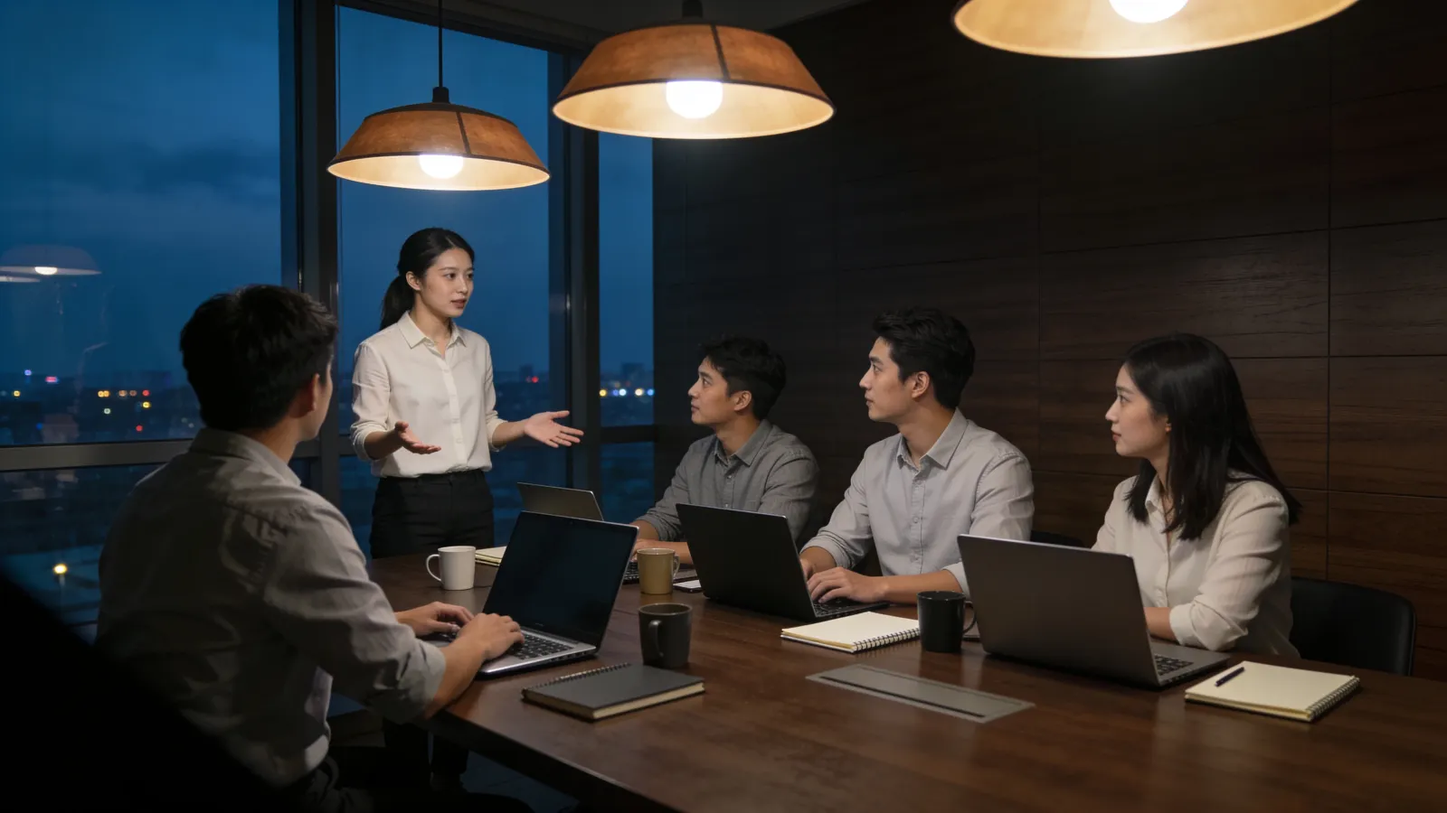
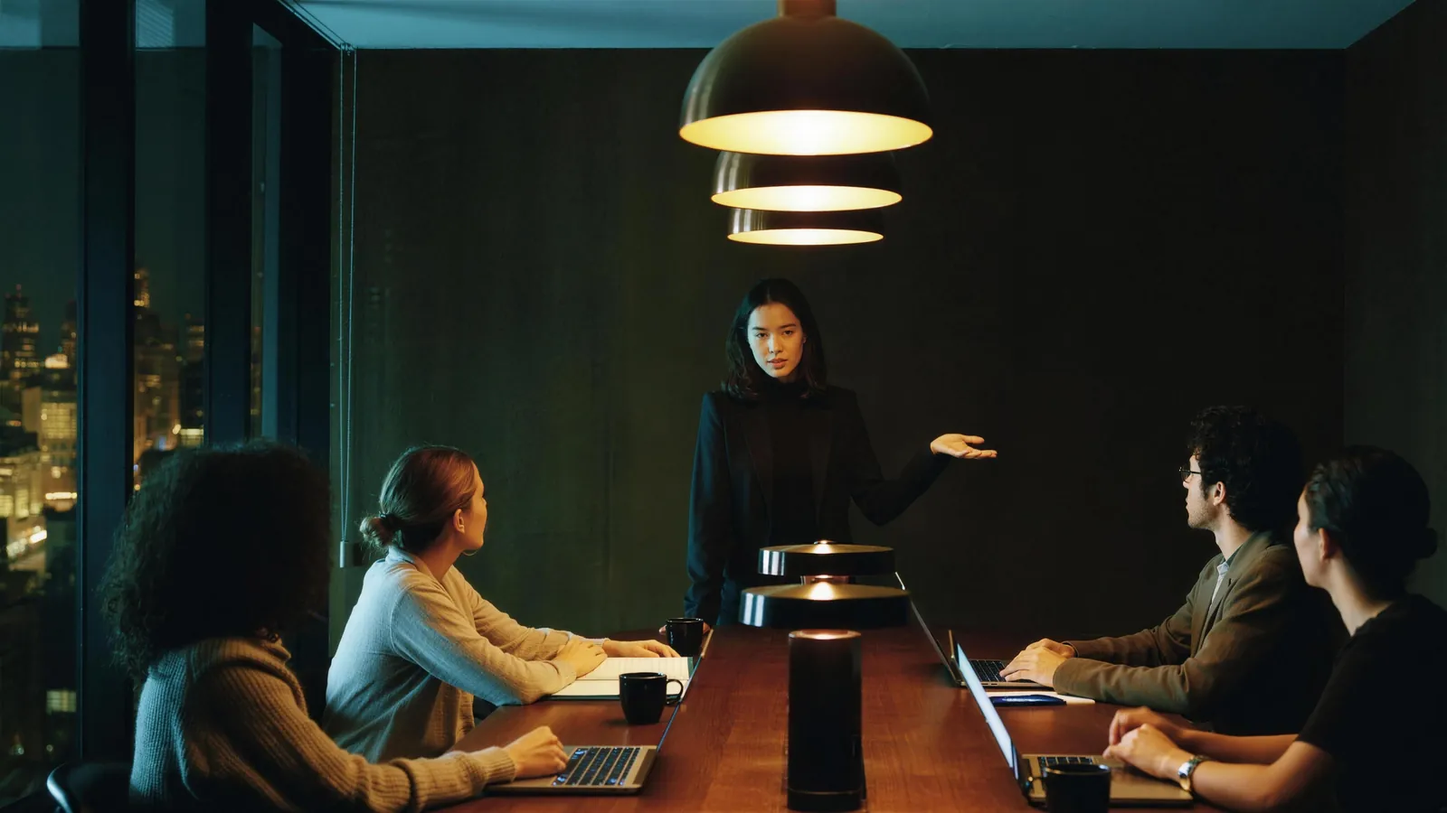
feat(how-we-work): new hero, with fixtures that match the rest of the site
Tyler's note asked for the light fixtures on the How We Work hero to match
the ones in every other image. The old hero hung three oversized tan cones,
pale on the outside, which read as a restaurant. Everywhere else on the site
(team-dusk, team-about, hero-about) the fixture is a compact pendant with a
dark bronze shade that reads dark from outside and warm underneath.

Replaced rather than retouched, because a lamp is lighting the room: changing
the shade means changing every falloff, shadow and skin tone under it. The new
hero keeps the scene the page needs, one person talking a seated team through
the work, and hangs a dark bronze tiered dome over it, glowing warm from
below. Same 16:9 frame and the site's three widths, rendered at 2048 then put
through a 4K upscale before resampling. Alt text updated to describe it.

diff --git a/public/__v8.html b/public/__v8.html
@@ -1,0 +1,250 @@
+<!doctype html>
+<html lang="en">
+<head>
+<meta charset="utf-8">
+<meta name="viewport" content="width=device-width, initial-scale=1">
+<title>ElderOps capability schematic</title>
+<link rel="preconnect" href="https://api.fontshare.com">
+<link href="https://api.fontshare.com/v2/css?f[]=general-sans@600,700&f[]=satoshi@400,500&display=swap" rel="stylesheet">
+<link href="https://fonts.googleapis.com/css2?family=IBM+Plex+Mono:wght@500&display=swap" rel="stylesheet">
+<style>
+*{box-sizing:border-box}
+body{margin:0;background:#fcfcf6;color:#0b2418;font-family:"Satoshi",system-ui,-apple-system,"Segoe UI",sans-serif;-webkit-font-smoothing:antialiased}
+.container{max-width:1440px;margin-inline:auto;padding-inline:64px}
+.head{padding:120px 0 0}
+.kicker{margin:0;font-family:"General Sans","Avenir Next","Trebuchet MS",sans-serif;font-size:16px;font-weight:600;letter-spacing:-0.01em;color:rgba(11,36,24,0.70)}
+h2{margin:12px 0 0;font-family:"General Sans","Avenir Next","Trebuchet MS",sans-serif;font-size:68px;font-weight:700;line-height:1.02;letter-spacing:-0.03em}
+.intro{margin:24px 0 0;max-width:560px;font-size:16px;line-height:1.65;color:rgba(11,36,24,0.64)}
+.plateWrap{background:#0a1110;margin-top:72px}
+.plateInner{max-width:1440px;margin-inline:auto;padding:56px 64px}
+.scroll{overflow-x:auto;overflow-y:hidden;-webkit-overflow-scrolling:touch}
+svg.plate{display:block;max-width:100%;height:auto;min-width:1100px}
+.rlab{font-family:"IBM Plex Mono",ui-monospace,"SF Mono",Menlo,monospace;font-size:10px;letter-spacing:0.16em;fill:rgba(241,238,231,0.44)}
+.elab{font-family:"IBM Plex Mono",ui-monospace,"SF Mono",Menlo,monospace;font-size:9.5px;letter-spacing:0.1em;fill:rgba(241,238,231,0.40);transition:fill .22s ease}
+.cut{fill:#0a1110}
+.edge{fill:none;stroke:rgba(241,238,231,0.22);stroke-width:1;transition:stroke .22s ease,opacity .22s ease}
+.edge.adv{stroke-dasharray:2 3;stroke:rgba(241,238,231,0.20)}
+.edge-live{fill:none;stroke:#0fb45e;stroke-width:1.5;stroke-dasharray:26 calc(var(--len) * 1px);
+  stroke-dashoffset:0;animation:trace 21.7s linear infinite;opacity:0}
+@keyframes trace{0%{stroke-dashoffset:0;opacity:0}0.4%{opacity:1}
+12.44%{stroke-dashoffset:calc(var(--len) * -1px);opacity:1}
+13.13%{stroke-dashoffset:calc(var(--len) * -1px);opacity:0}
+100%{stroke-dashoffset:calc(var(--len) * -1px);opacity:0}}
+.edge-live[data-for="e1"]{animation-delay:0.0s}
+.edge-live[data-for="e2"]{animation-delay:3.1s}
+.edge-live[data-for="e3"]{animation-delay:6.2s}
+.edge-live[data-for="e4"]{animation-delay:9.3s}
+.edge-live[data-for="e5"]{animation-delay:12.4s}
+.edge-live[data-for="e6"]{animation-delay:15.5s}
+.edge-live[data-for="e7"]{animation-delay:18.6s}
+.node{cursor:pointer;outline:none}
+.nbg{fill:#0f1615;transition:fill .2s ease}
+.nbr{fill:none;stroke:rgba(241,238,231,0.15);stroke-width:1;transition:stroke .2s ease}
+.nidx{font-family:"IBM Plex Mono",ui-monospace,"SF Mono",Menlo,monospace;font-size:11px;letter-spacing:0.08em;fill:rgba(241,238,231,0.45)}
+.nrule{stroke:rgba(241,238,231,0.13);stroke-width:1}
+.ntitle{font-family:"General Sans","Avenir Next","Trebuchet MS",sans-serif;font-size:19px;font-weight:700;letter-spacing:-0.02em;fill:#f1eee7}
+.nkind{font-family:"IBM Plex Mono",ui-monospace,"SF Mono",Menlo,monospace;font-size:10px;letter-spacing:0.14em;fill:rgba(241,238,231,0.40)}
+.nsubs{font-family:"IBM Plex Mono",ui-monospace,"SF Mono",Menlo,monospace;font-size:10px;letter-spacing:0.04em;fill:rgba(241,238,231,0);transition:fill .22s ease}
+.sym .p{fill:none;stroke:rgba(241,238,231,0.68);stroke-width:1.5;stroke-linejoin:miter;transition:stroke .2s ease}
+.sym .c{fill:none;stroke:rgba(241,238,231,0.30);stroke-width:0.8;transition:stroke .2s ease}
+.sym .cl{fill:none;stroke:rgba(241,238,231,0.22);stroke-width:0.8;stroke-dasharray:7 2.5 1.5 2.5;transition:stroke .2s ease}
+.sym .s{fill:rgba(241,238,231,0.70);stroke:none;transition:fill .2s ease}
+.sym .h{fill:url(#hx);stroke:none}
+.sym .h2{fill:url(#hx2);stroke:none}
+.node:hover .nbg,.node:focus-visible .nbg{fill:#141d1b}
+.node:hover .nbr,.node:focus-visible .nbr{stroke:#0fb45e}
+.node:hover .sym .p,.node:focus-visible .sym .p{stroke:#0fb45e}
+.node:hover .sym .s,.node:focus-visible .sym .s{fill:#0fb45e}
+.node:hover .sym .c,.node:hover .sym .cl,.node:focus-visible .sym .c,.node:focus-visible .sym .cl{stroke:rgba(15,180,94,0.50)}
+.node:hover .nsubs,.node:focus-visible .nsubs{fill:rgba(241,238,231,0.62)}
+.node:focus-visible .nbr{stroke-width:2}
+svg.plate:has(.node:hover) .edge-live,svg.plate:has(.node:focus-visible) .edge-live{animation-play-state:paused;opacity:0}
+svg.plate:has(.node:hover) .node:not(:hover){opacity:.32}
+svg.plate:has(.node:hover) .edge,svg.plate:has(.node:focus-visible) .edge{opacity:.16}
+svg.plate:has(.node:hover) .elab,svg.plate:has(.node:focus-visible) .elab{fill:rgba(241,238,231,0.12)}
+svg.plate:has(.node[data-n="01"]:hover) .edge[data-a="01"],svg.plate:has(.node[data-n="01"]:hover) .edge[data-b="01"],svg.plate:has(.node[data-n="01"]:focus-visible) .edge[data-a="01"],svg.plate:has(.node[data-n="01"]:focus-visible) .edge[data-b="01"]{stroke:#0fb45e;opacity:1;marker-end:url(#chevlive)}
+svg.plate:has(.node[data-n="01"]:hover) .elab[data-a="01"],svg.plate:has(.node[data-n="01"]:hover) .elab[data-b="01"],svg.plate:has(.node[data-n="01"]:focus-visible) .elab[data-a="01"],svg.plate:has(.node[data-n="01"]:focus-visible) .elab[data-b="01"]{fill:#0fb45e}
+svg.plate:has(.node[data-n="02"]:hover) .edge[data-a="02"],svg.plate:has(.node[data-n="02"]:hover) .edge[data-b="02"],svg.plate:has(.node[data-n="02"]:focus-visible) .edge[data-a="02"],svg.plate:has(.node[data-n="02"]:focus-visible) .edge[data-b="02"]{stroke:#0fb45e;opacity:1;marker-end:url(#chevlive)}
+svg.plate:has(.node[data-n="02"]:hover) .elab[data-a="02"],svg.plate:has(.node[data-n="02"]:hover) .elab[data-b="02"],svg.plate:has(.node[data-n="02"]:focus-visible) .elab[data-a="02"],svg.plate:has(.node[data-n="02"]:focus-visible) .elab[data-b="02"]{fill:#0fb45e}
+svg.plate:has(.node[data-n="03"]:hover) .edge[data-a="03"],svg.plate:has(.node[data-n="03"]:hover) .edge[data-b="03"],svg.plate:has(.node[data-n="03"]:focus-visible) .edge[data-a="03"],svg.plate:has(.node[data-n="03"]:focus-visible) .edge[data-b="03"]{stroke:#0fb45e;opacity:1;marker-end:url(#chevlive)}
+svg.plate:has(.node[data-n="03"]:hover) .elab[data-a="03"],svg.plate:has(.node[data-n="03"]:hover) .elab[data-b="03"],svg.plate:has(.node[data-n="03"]:focus-visible) .elab[data-a="03"],svg.plate:has(.node[data-n="03"]:focus-visible) .elab[data-b="03"]{fill:#0fb45e}
+svg.plate:has(.node[data-n="04"]:hover) .edge[data-a="04"],svg.plate:has(.node[data-n="04"]:hover) .edge[data-b="04"],svg.plate:has(.node[data-n="04"]:focus-visible) .edge[data-a="04"],svg.plate:has(.node[data-n="04"]:focus-visible) .edge[data-b="04"]{stroke:#0fb45e;opacity:1;marker-end:url(#chevlive)}
+svg.plate:has(.node[data-n="04"]:hover) .elab[data-a="04"],svg.plate:has(.node[data-n="04"]:hover) .elab[data-b="04"],svg.plate:has(.node[data-n="04"]:focus-visible) .elab[data-a="04"],svg.plate:has(.node[data-n="04"]:focus-visible) .elab[data-b="04"]{fill:#0fb45e}
+svg.plate:has(.node[data-n="05"]:hover) .edge[data-a="05"],svg.plate:has(.node[data-n="05"]:hover) .edge[data-b="05"],svg.plate:has(.node[data-n="05"]:focus-visible) .edge[data-a="05"],svg.plate:has(.node[data-n="05"]:focus-visible) .edge[data-b="05"]{stroke:#0fb45e;opacity:1;marker-end:url(#chevlive)}
+svg.plate:has(.node[data-n="05"]:hover) .elab[data-a="05"],svg.plate:has(.node[data-n="05"]:hover) .elab[data-b="05"],svg.plate:has(.node[data-n="05"]:focus-visible) .elab[data-a="05"],svg.plate:has(.node[data-n="05"]:focus-visible) .elab[data-b="05"]{fill:#0fb45e}
+svg.plate:has(.node[data-n="06"]:hover) .edge[data-a="06"],svg.plate:has(.node[data-n="06"]:hover) .edge[data-b="06"],svg.plate:has(.node[data-n="06"]:focus-visible) .edge[data-a="06"],svg.plate:has(.node[data-n="06"]:focus-visible) .edge[data-b="06"]{stroke:#0fb45e;opacity:1;marker-end:url(#chevlive)}
+svg.plate:has(.node[data-n="06"]:hover) .elab[data-a="06"],svg.plate:has(.node[data-n="06"]:hover) .elab[data-b="06"],svg.plate:has(.node[data-n="06"]:focus-visible) .elab[data-a="06"],svg.plate:has(.node[data-n="06"]:focus-visible) .elab[data-b="06"]{fill:#0fb45e}
+svg.plate:has(.node[data-n="07"]:hover) .edge[data-a="07"],svg.plate:has(.node[data-n="07"]:hover) .edge[data-b="07"],svg.plate:has(.node[data-n="07"]:focus-visible) .edge[data-a="07"],svg.plate:has(.node[data-n="07"]:focus-visible) .edge[data-b="07"]{stroke:#0fb45e;opacity:1;marker-end:url(#chevlive)}
+svg.plate:has(.node[data-n="07"]:hover) .elab[data-a="07"],svg.plate:has(.node[data-n="07"]:hover) .elab[data-b="07"],svg.plate:has(.node[data-n="07"]:focus-visible) .elab[data-a="07"],svg.plate:has(.node[data-n="07"]:focus-visible) .elab[data-b="07"]{fill:#0fb45e}
+svg.plate:has(.node[data-n="08"]:hover) .edge[data-a="08"],svg.plate:has(.node[data-n="08"]:hover) .edge[data-b="08"],svg.plate:has(.node[data-n="08"]:focus-visible) .edge[data-a="08"],svg.plate:has(.node[data-n="08"]:focus-visible) .edge[data-b="08"]{stroke:#0fb45e;opacity:1;marker-end:url(#chevlive)}
+svg.plate:has(.node[data-n="08"]:hover) .elab[data-a="08"],svg.plate:has(.node[data-n="08"]:hover) .elab[data-b="08"],svg.plate:has(.node[data-n="08"]:focus-visible) .elab[data-a="08"],svg.plate:has(.node[data-n="08"]:focus-visible) .elab[data-b="08"]{fill:#0fb45e}
+@media (prefers-reduced-motion: reduce){
+ .edge-live{animation:none;opacity:1;stroke-dashoffset:calc(var(--len) * -0.38px)}
+ .nbg,.nbr,.sym .p,.sym .c,.sym .s,.nsubs,.elab,.edge{transition:none}}
+@media (max-width:900px){.container{padding-inline:20px}.plateInner{padding:28px 20px}h2{font-size:44px}.head{padding-top:72px}}
+</style>
+</head>
+<body>
+<div class="container head">
+  <p class="kicker">What we do</p>
+  <h2>Our capabilities.</h2>
+  <p class="intro">Each engagement is scoped against your roadmap, led by senior engineers, and measured by outcomes you can check.</p>
+</div>
+<div class="plateWrap"><div class="plateInner"><div class="scroll">
+<svg class="plate" viewBox="0 0 1312 980" width="1312" height="980" role="img" aria-labelledby="pt">
+<title id="pt">Schematic of the eight ElderOps capabilities and how they relate.</title>
+<defs>
+<pattern id="grid" width="32" height="32" patternUnits="userSpaceOnUse">
+  <path d="M32 0 L0 0 0 32" fill="none" stroke="rgba(241,238,231,0.045)" stroke-width="1"/>
+</pattern>
+<pattern id="hx" width="4" height="4" patternUnits="userSpaceOnUse" patternTransform="rotate(45)">
+  <path d="M0 0 V4" stroke="rgba(241,238,231,0.30)" stroke-width="0.7"/>
+</pattern>
+<pattern id="hx2" width="4" height="4" patternUnits="userSpaceOnUse" patternTransform="rotate(-45)">
+  <path d="M0 0 V4" stroke="rgba(241,238,231,0.22)" stroke-width="0.7"/>
+</pattern>
+<marker id="chev" viewBox="0 0 10 10" refX="8.5" refY="5" markerWidth="8" markerHeight="8" orient="auto-start-reverse">
+  <path d="M2 1.5 L8 5 L2 8.5" fill="none" stroke="rgba(241,238,231,0.34)" stroke-width="1.2" stroke-linecap="round" stroke-linejoin="round"/>
+</marker>
+<marker id="chevlive" viewBox="0 0 10 10" refX="8.5" refY="5" markerWidth="8" markerHeight="8" orient="auto-start-reverse">
+  <path d="M2 1.5 L8 5 L2 8.5" fill="none" stroke="#0fb45e" stroke-width="1.4" stroke-linecap="round" stroke-linejoin="round"/>
+</marker>
+</defs>
+<rect x="0" y="0" width="1312" height="980" fill="#0a1110"/>
+<rect x="0" y="0" width="1312" height="980" fill="url(#grid)"/>
+<g stroke="rgba(241,238,231,0.14)" stroke-width="1" fill="none">
+<path d="M22.5 0.5 H1289"/><path d="M22.5 979 H1289"/>
+<path d="M0.5 22.5 V957"/><path d="M1311 22.5 V957"/></g>
+<path d="M0.5 12.5 V0.5 H12.5" stroke="rgba(241,238,231,0.30)" stroke-width="1" fill="none"/>
+<path d="M1311 12.5 V0.5 H1299" stroke="rgba(241,238,231,0.30)" stroke-width="1" fill="none"/>
+<path d="M0.5 967 V979 H12.5" stroke="rgba(241,238,231,0.30)" stroke-width="1" fill="none"/>
+<path d="M1311 967 V979 H1299" stroke="rgba(241,238,231,0.30)" stroke-width="1" fill="none"/>
+<g stroke="rgba(241,238,231,0.13)" stroke-width="1" stroke-dasharray="2 3" fill="none">
+<path d="M158.0 250 H404"/><path d="M40 250 H52"/>
+<path d="M40 896 H404"/><path d="M40 250 V896"/><path d="M404 250 V896"/></g>
+<text x="56" y="254" class="rlab">FOUNDATION</text>
+<g stroke="rgba(241,238,231,0.13)" stroke-width="1" stroke-dasharray="2 3" fill="none">
+<path d="M556.8 250 H820"/><path d="M456 250 H468"/>
+<path d="M456 688 H820"/><path d="M456 250 V688"/><path d="M820 250 V688"/></g>
+<text x="472" y="254" class="rlab">DELIVERY</text>
+<g stroke="rgba(241,238,231,0.13)" stroke-width="1" stroke-dasharray="2 3" fill="none">
+<path d="M964.2 250 H1236"/><path d="M872 250 H884"/>
+<path d="M872 688 H1236"/><path d="M872 250 V688"/><path d="M1236 250 V688"/></g>
+<text x="888" y="254" class="rlab">OPERATE</text>
+<path class="edge" data-a="01" data-b="02" d="M222 498 L222 462" marker-end="url(#chev)"/>
+<path class="edge-live" data-for="e1" d="M222 498 L222 462" style="--len:36"/>
+<rect class="cut" x="232" y="474" width="42.5" height="13"/>
+<text class="elab" data-a="01" data-b="02" x="232" y="483" text-anchor="start">hosts</text>
+<path class="edge" data-a="01" data-b="07" d="M222 666 L222 702" marker-end="url(#chev)"/>
+<path class="edge-live" data-for="e2" d="M222 666 L222 702" style="--len:36"/>
+<rect class="cut" x="232" y="678" width="42.5" height="13"/>
+<text class="elab" data-a="01" data-b="07" x="232" y="687" text-anchor="start">hosts</text>
+<path class="edge" data-a="02" data-b="03" d="M382 374 L474 374" marker-end="url(#chev)"/>
+<path class="edge-live" data-for="e3" d="M382 374 L474 374" style="--len:92"/>
+<rect class="cut" x="406.75" y="353" width="42.5" height="13"/>
+<text class="elab" data-a="02" data-b="03" x="428" y="362" text-anchor="middle">paves</text>
+<path class="edge" data-a="04" data-b="03" d="M638 498 L638 462" marker-end="url(#chev)"/>
+<path class="edge-live" data-for="e4" d="M638 498 L638 462" style="--len:36"/>
+<rect class="cut" x="648" y="474" width="60.8" height="13"/>
+<text class="elab" data-a="04" data-b="03" x="648" y="483" text-anchor="start">enforces</text>
+<path class="edge" data-a="03" data-b="05" d="M798 374 L890 374" marker-end="url(#chev)"/>
+<path class="edge-live" data-for="e5" d="M798 374 L890 374" style="--len:92"/>
+<rect class="cut" x="816.65" y="353" width="54.7" height="13"/>
+<text class="elab" data-a="03" data-b="05" x="844" y="362" text-anchor="middle">deploys</text>
+<path class="edge" data-a="05" data-b="06" d="M1054 458 L1054 494" marker-end="url(#chev)"/>
+<path class="edge-live" data-for="e6" d="M1054 458 L1054 494" style="--len:36"/>
+<rect class="cut" x="1064" y="470" width="60.8" height="13"/>
+<text class="elab" data-a="05" data-b="06" x="1064" y="479" text-anchor="start">observes</text>
+<path class="edge" data-a="06" data-b="07" d="M1054 666 L1054 928 L222 928 L222 878" marker-end="url(#chev)"/>
+<path class="edge-live" data-for="e7" d="M1054 666 L1054 928 L222 928 L222 878" style="--len:1144"/>
+<rect class="cut" x="610.65" y="910" width="54.7" height="13"/>
+<text class="elab" data-a="06" data-b="07" x="638" y="919" text-anchor="middle">informs</text>
+<path class="edge adv" data-a="08" data-b="02" d="M560 224 L560 238 L222 238 L222 286" marker-end="url(#chev)"/>
+<path class="edge adv" data-a="08" data-b="03" d="M638 224 L638 286" marker-end="url(#chev)"/>
+<path class="edge adv" data-a="08" data-b="05" d="M752 224 L752 238 L1054 238 L1054 286" marker-end="url(#chev)"/>
+<rect class="cut" x="361" y="229" width="60" height="13"/>
+<text class="elab" x="391" y="242" text-anchor="middle">advises</text>
+<a class="node" data-n="02" href="/services/platform-engineering" tabindex="0" aria-label="Platform Engineering">
+  <rect class="nbg" x="62" y="290" width="320" height="168"/>
+  <rect class="nbr" x="62.5" y="290.5" width="319" height="167"/>
+  <text class="nidx" x="78" y="322">02</text>
+  <path class="nrule" d="M106 318 H290"/>
+  <g class="sym" transform="translate(302,302)"><rect class="s" x="3" y="40" width="58" height="5"/><rect class="h" x="3" y="45" width="58" height="8"/><rect class="p" x="3" y="45" width="58" height="8"/><rect class="h2" x="3" y="53" width="58" height="8"/><rect class="p" x="3" y="53" width="58" height="8"/><rect class="p" x="8" y="26" width="12" height="14"/><rect class="p" x="26" y="26" width="12" height="14"/><rect class="p" x="44" y="26" width="12" height="14"/><path class="cl" d="M14 22 V63"/><path class="cl" d="M32 22 V63"/><path class="cl" d="M50 22 V63"/><path class="c" d="M6 38 V42"/><path class="c" d="M14 38 V42"/><path class="c" d="M22 38 V42"/><path class="c" d="M30 38 V42"/><path class="c" d="M38 38 V42"/><path class="c" d="M46 38 V42"/><path class="c" d="M54 38 V42"/><path class="c" d="M3 18 H14"/><path class="c" d="M11 15 L14 18 L11 21"/></g>
+  <text class="ntitle" x="78" y="396">Platform Engineering</text>
+  <text class="nkind" x="78" y="418">PLATFORM</text>
+  <text class="nsubs" x="78" y="442">golden paths / self-service / developer portal</text>
+</a>
+<a class="node" data-n="01" href="/services/cloud-infrastructure" tabindex="0" aria-label="Cloud and Infrastructure">
+  <rect class="nbg" x="62" y="498" width="320" height="168"/>
+  <rect class="nbr" x="62.5" y="498.5" width="319" height="167"/>
+  <text class="nidx" x="78" y="530">01</text>
+  <path class="nrule" d="M106 526 H290"/>
+  <g class="sym" transform="translate(302,510)"><rect class="p" x="13" y="4" width="38" height="56"/><path class="c" d="M17 4 V60"/><path class="c" d="M47 4 V60"/><rect class="s" x="17" y="7" width="30" height="7"/><rect class="h" x="17" y="16" width="30" height="7"/><rect class="p" x="17" y="16" width="30" height="7"/><rect class="s" x="17" y="25" width="30" height="7"/><rect class="h" x="17" y="34" width="30" height="7"/><rect class="p" x="17" y="34" width="30" height="7"/><rect class="s" x="17" y="43" width="30" height="7"/><rect class="p" x="17" y="52" width="30" height="7"/><path class="c" d="M21 54 V57"/><path class="c" d="M28 54 V57"/><path class="c" d="M35 54 V57"/><path class="c" d="M42 54 V57"/><path class="c" d="M7 4 V60"/><path class="c" d="M4 4 H10"/><path class="c" d="M4 60 H10"/><path class="cl" d="M32 0 V64"/></g>
+  <text class="ntitle" x="78" y="604">Cloud &amp; Infrastructure</text>
+  <text class="nkind" x="78" y="626">SUBSTRATE</text>
+  <text class="nsubs" x="78" y="650">landing zones / IaC / networking / recovery</text>
+</a>
+<a class="node" data-n="07" href="/services/data-modernization" tabindex="0" aria-label="Data and Modernization">
+  <rect class="nbg" x="62" y="706" width="320" height="168"/>
+  <rect class="nbr" x="62.5" y="706.5" width="319" height="167"/>
+  <text class="nidx" x="78" y="738">07</text>
+  <path class="nrule" d="M106 734 H290"/>
+  <g class="sym" transform="translate(302,718)"><ellipse class="p" cx="35" cy="16" rx="11" ry="4"/><path class="p" d="M24 16 V50"/><path class="p" d="M46 16 V50"/><path class="p" d="M24 50 A11 4 0 0 0 46 50"/><path class="h" d="M24 36 h22 v14 A11 4 0 0 1 24 50 Z"/><path class="p" d="M24 36 H46"/><path class="c" d="M24 24 H46"/><path class="c" d="M24 30 H46"/><path class="c" d="M4 12 H14"/><path class="c" d="M4 24 H14"/><path class="c" d="M4 36 H14"/><path class="c" d="M14 12 V36"/><path class="p" d="M14 24 H24"/><path class="c" d="M21 21 L24 24 L21 27"/><path class="c" d="M46 44 H58"/><path class="c" d="M58 44 V28"/><path class="c" d="M55 31 L58 28 L61 31"/><path class="cl" d="M35 6 V60"/></g>
+  <text class="ntitle" x="78" y="812">Data &amp; Modernization</text>
+  <text class="nkind" x="78" y="834">STATEFUL</text>
+  <text class="nsubs" x="78" y="858">platform / pipelines / governance</text>
+</a>
+<a class="node" data-n="03" href="/services/devops-delivery" tabindex="0" aria-label="DevOps and Delivery">
+  <rect class="nbg" x="478" y="290" width="320" height="168"/>
+  <rect class="nbr" x="478.5" y="290.5" width="319" height="167"/>
+  <text class="nidx" x="494" y="322">03</text>
+  <path class="nrule" d="M522 318 H706"/>
+  <g class="sym" transform="translate(718,302)"><circle class="p" cx="16" cy="32" r="11"/><circle class="c" cx="16" cy="32" r="7.5"/><path class="c" d="M16 32 L16.0 23.0"/><path class="c" d="M16 32 L8.2 36.5"/><path class="c" d="M16 32 L23.8 36.5"/><circle class="s" cx="16" cy="32" r="2.6"/><circle class="p" cx="48" cy="32" r="11"/><circle class="c" cx="48" cy="32" r="7.5"/><path class="c" d="M48 32 L48.0 23.0"/><path class="c" d="M48 32 L40.2 36.5"/><path class="c" d="M48 32 L55.8 36.5"/><circle class="s" cx="48" cy="32" r="2.6"/><path class="p" d="M16 21 H48"/><path class="p" d="M16 43 H48"/><rect class="s" x="20" y="16" width="9" height="4.5"/><rect class="s" x="30" y="16" width="9" height="4.5"/><rect class="s" x="40" y="16" width="9" height="4.5"/><path class="c" d="M26 13 H40"/><path class="c" d="M37 10 L40 13 L37 16"/><path class="cl" d="M0 32 H64"/></g>
+  <text class="ntitle" x="494" y="396">DevOps &amp; Delivery</text>
+  <text class="nkind" x="494" y="418">PIPELINE</text>
+  <text class="nsubs" x="494" y="442">CI/CD / release automation / environments</text>
+</a>
+<a class="node" data-n="04" href="/services/security-devsecops" tabindex="0" aria-label="Security and DevSecOps">
+  <rect class="nbg" x="478" y="498" width="320" height="168"/>
+  <rect class="nbr" x="478.5" y="498.5" width="319" height="167"/>
+  <text class="nidx" x="494" y="530">04</text>
+  <path class="nrule" d="M522 526 H706"/>
+  <g class="sym" transform="translate(718,510)"><rect class="h" x="2" y="8" width="20" height="50"/><rect class="p" x="2" y="8" width="20" height="50"/><rect class="h" x="42" y="8" width="20" height="50"/><rect class="p" x="42" y="8" width="20" height="50"/><path class="c" d="M22 6 H42"/><path class="c" d="M22 60 H42"/><rect class="s" x="29" y="4" width="6" height="20"/><path class="c" d="M32 0 V4"/><path class="c" d="M29 2 H35"/><path class="c" d="M22 34 H42"/><path class="c" d="M39 31 L42 34 L39 37"/><path class="c" d="M22 48 H42"/><path class="c" d="M39 45 L42 48 L39 51"/><path class="c" d="M22 15 H27"/><path class="p" d="M27 11 V19"/><path class="cl" d="M32 24 V64"/></g>
+  <text class="ntitle" x="494" y="604">Security &amp; DevSecOps</text>
+  <text class="nkind" x="494" y="626">POLICY</text>
+  <text class="nsubs" x="494" y="650">scanning / identity / secrets / supply chain</text>
+</a>
+<a class="node" data-n="05" href="/services/reliability-operations" tabindex="0" aria-label="Reliability and Operations">
+  <rect class="nbg" x="894" y="290" width="320" height="168"/>
+  <rect class="nbr" x="894.5" y="290.5" width="319" height="167"/>
+  <text class="nidx" x="910" y="322">05</text>
+  <path class="nrule" d="M938 318 H1122"/>
+  <g class="sym" transform="translate(1134,302)"><path class="c" d="M2 22 H5"/><circle class="p" cx="12" cy="22" r="7"/><path class="c" d="M12 15 V29"/><path class="c" d="M5 22 H19"/><path class="s" d="M12 15 A7 7 0 0 1 19 22 L12 22 Z"/><path class="c" d="M19 22 H25"/><path class="c" d="M22 19 L25 22 L22 25"/><rect class="p" x="25" y="10" width="26" height="24"/><rect class="h" x="25" y="27" width="26" height="7"/><path class="c" d="M29 15 H47"/><path class="c" d="M29 20 H41"/><path class="c" d="M51 22 H59"/><path class="c" d="M59 22 V50"/><path class="c" d="M59 50 H47"/><rect class="p" x="23" y="42" width="24" height="16"/><rect class="h2" x="23" y="42" width="24" height="16"/><path class="c" d="M27 50 H43"/><path class="c" d="M23 50 H12"/><path class="c" d="M12 50 V31"/><path class="c" d="M9 34 L12 31 L15 34"/><path class="c" d="M4 30 H8"/><path class="c" d="M6 28 V32"/><path class="cl" d="M12 2 V15"/><path class="cl" d="M38 34 V42"/></g>
+  <text class="ntitle" x="910" y="396">Reliability &amp; Operations</text>
+  <text class="nkind" x="910" y="418">CONTROL LOOP</text>
+  <text class="nsubs" x="910" y="442">SLOs / observability / on-call / recovery</text>
+</a>
+<a class="node" data-n="06" href="/services/cloud-cost-optimization" tabindex="0" aria-label="Cloud Cost Optimization">
+  <rect class="nbg" x="894" y="498" width="320" height="168"/>
+  <rect class="nbr" x="894.5" y="498.5" width="319" height="167"/>
+  <text class="nidx" x="910" y="530">06</text>
+  <path class="nrule" d="M938 526 H1122"/>
+  <g class="sym" transform="translate(1134,510)"><path class="c" d="M12.1 37.3 L11.4 35.6 L10.8 33.8 L10.4 32.1 L10.1 30.2 L10.0 28.4 L10.0 26.6 L10.2 24.7 L10.6 22.9 L11.1 21.2 L11.7 19.4 L12.5 17.8 L13.4 16.2 L14.5 14.7 L15.7 13.3 L17.0 11.9 L18.4 10.7 L19.8 9.7 L21.4 8.7 L23.1 7.9 L24.8 7.2 L26.5 6.7 L28.3 6.3 L30.2 6.1 L32.0 6.0 L33.8 6.1 L35.7 6.3 L37.5 6.7 L39.2 7.2 L40.9 7.9 L42.6 8.7 L44.2 9.7 L45.6 10.7 L47.0 11.9 L48.3 13.3 L49.5 14.7 L50.6 16.2 L51.5 17.8 L52.3 19.4 L52.9 21.2 L53.4 22.9 L53.8 24.7 L54.0 26.6 L54.0 28.4 L53.9 30.2 L53.6 32.1 L53.2 33.8 L52.6 35.6 L51.9 37.3"/><path class="p" d="M15.7 35.6 L15.1 34.2 L14.6 32.8 L14.3 31.3 L14.1 29.8 L14.0 28.3 L14.0 26.8 L14.2 25.3 L14.5 23.8 L14.9 22.4 L15.4 21.0 L16.1 19.6 L16.8 18.3 L17.7 17.1 L18.6 15.9 L19.7 14.9 L20.8 13.9 L22.1 13.0 L23.3 12.2 L24.7 11.6 L26.1 11.0 L27.5 10.6 L29.0 10.3 L30.5 10.1 L32.0 10.0 L33.5 10.1 L35.0 10.3 L36.5 10.6 L37.9 11.0 L39.3 11.6 L40.7 12.2 L41.9 13.0 L43.2 13.9 L44.3 14.9 L45.4 15.9 L46.3 17.1 L47.2 18.3 L47.9 19.6 L48.6 21.0 L49.1 22.4 L49.5 23.8 L49.8 25.3 L50.0 26.8 L50.0 28.3 L49.9 29.8 L49.7 31.3 L49.4 32.8 L48.9 34.2 L48.3 35.6"/><path class="c" d="M15.7 35.6 L20.2 33.5"/><path class="c" d="M14.5 23.8 L19.4 25.0"/><path class="c" d="M20.8 13.9 L23.9 17.8"/><path class="c" d="M32.0 10.0 L32.0 15.0"/><path class="c" d="M43.2 13.9 L40.1 17.8"/><path class="c" d="M49.5 23.8 L44.6 25.0"/><path class="c" d="M48.3 35.6 L43.8 33.5"/><path class="c" d="M15.7 35.6 L18.0 34.6"/><path class="c" d="M14.1 29.8 L16.6 29.6"/><path class="c" d="M14.5 23.8 L16.9 24.4"/><path class="c" d="M16.8 18.3 L18.9 19.7"/><path class="c" d="M20.8 13.9 L22.4 15.8"/><path class="c" d="M26.1 11.0 L26.9 13.4"/><path class="c" d="M32.0 10.0 L32.0 12.5"/><path class="c" d="M37.9 11.0 L37.1 13.4"/><path class="c" d="M43.2 13.9 L41.6 15.8"/><path class="c" d="M47.2 18.3 L45.1 19.7"/><path class="c" d="M49.5 23.8 L47.1 24.4"/><path class="c" d="M49.9 29.8 L47.4 29.6"/><path class="c" d="M48.3 35.6 L46.0 34.6"/><path class="p" d="M32 28 L17.3 24.9"/><circle class="s" cx="32" cy="28" r="2.8"/><rect class="p" x="26" y="48" width="12" height="14"/><rect class="h" x="26" y="48" width="12" height="14"/><path class="c" d="M20 55 H26"/><path class="c" d="M38 55 H44"/><path class="cl" d="M32 2 V62"/></g>
+  <text class="ntitle" x="910" y="604">Cloud Cost Optimization</text>
+  <text class="nkind" x="910" y="626">GOVERNOR</text>
+  <text class="nsubs" x="910" y="650">allocation / guardrails / unit economics</text>
+</a>
+<a class="node" data-n="08" href="/services/technology-advisory" tabindex="0" aria-label="Technology Advisory">
+  <rect class="nbg" x="496" y="56" width="320" height="168"/>
+  <rect class="nbr" x="496.5" y="56.5" width="319" height="167"/>
+  <text class="nidx" x="512" y="88">08</text>
+  <path class="nrule" d="M540 84 H724"/>
+  <g class="sym" transform="translate(736,68)"><path class="p" d="M32 38 L11 62"/><path class="p" d="M32 38 V62"/><path class="p" d="M32 38 L53 62"/><path class="c" d="M18 54 H46"/><rect class="s" x="24" y="34" width="16" height="4"/><rect class="p" x="27" y="26" width="10" height="8"/><circle class="p" cx="32" cy="21" r="9"/><path class="c" d="M23.0 21.0 L25.5 21.0"/><path class="c" d="M25.6 14.6 L27.4 16.4"/><path class="c" d="M32.0 12.0 L32.0 14.5"/><path class="c" d="M38.4 14.6 L36.6 16.4"/><path class="c" d="M41.0 21.0 L38.5 21.0"/><rect class="p" x="17" y="17" width="30" height="8"/><rect class="s" x="13" y="18.5" width="4" height="5"/><rect class="s" x="47" y="18.5" width="4" height="5"/><path class="cl" d="M51 21 H64"/><path class="c" d="M60 18 L63 21 L60 24"/><path class="cl" d="M32 6 V38"/></g>
+  <text class="ntitle" x="512" y="162">Technology Advisory</text>
+  <text class="nkind" x="512" y="184">CONTROL PLANE</text>
+  <text class="nsubs" x="512" y="208">fractional leadership / architecture / diligence</text>
+</a>
+</svg>
+</div></div></div>
+</body>
+</html>

diff --git a/src/components/screens/howwework/v4/HwwHero.tsx b/src/components/screens/howwework/v4/HwwHero.tsx
@@ -19,7 +19,7 @@ const HwwHero = () => (
       src={heroImage}
       srcSet={`${heroImage828} 828w, ${heroImage1600} 1600w, ${heroImage} 2880w`}
       sizes="100vw"
-      alt="ElderOps data engineers working together around a boardroom table in the evening"
+      alt="An ElderOps engineer talking a client team through the work, around a boardroom table at night"
       className="absolute inset-0 size-full object-cover"
       style={{ objectPosition: "center 45%" }}
     />
